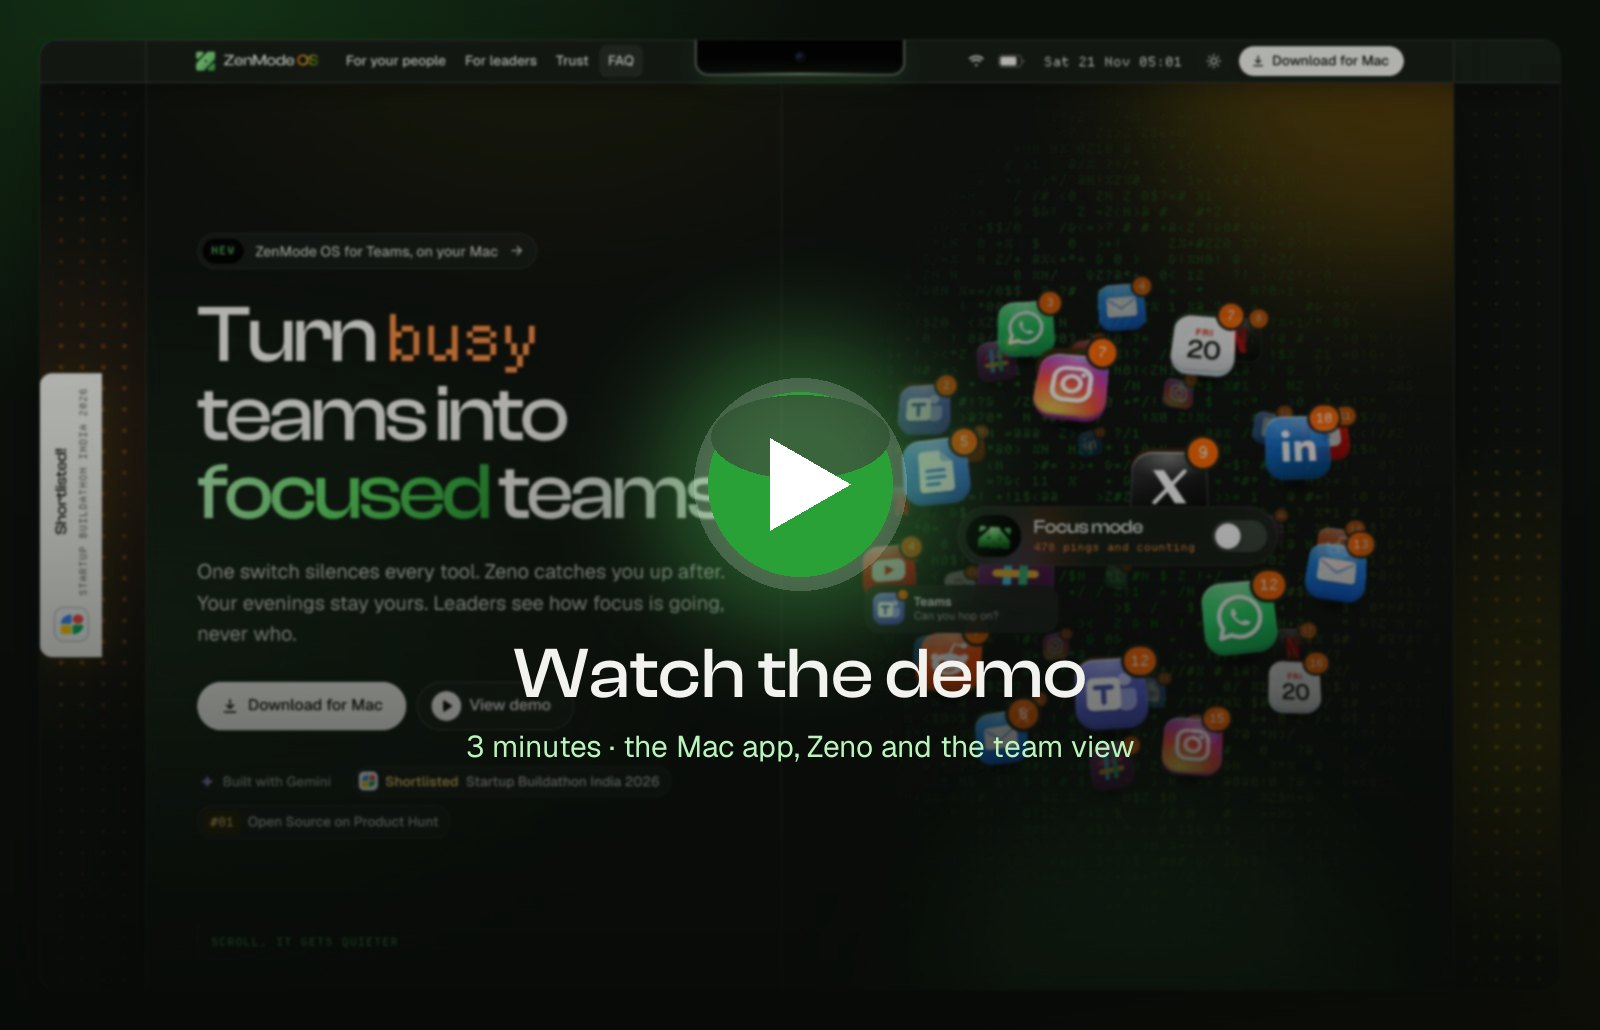
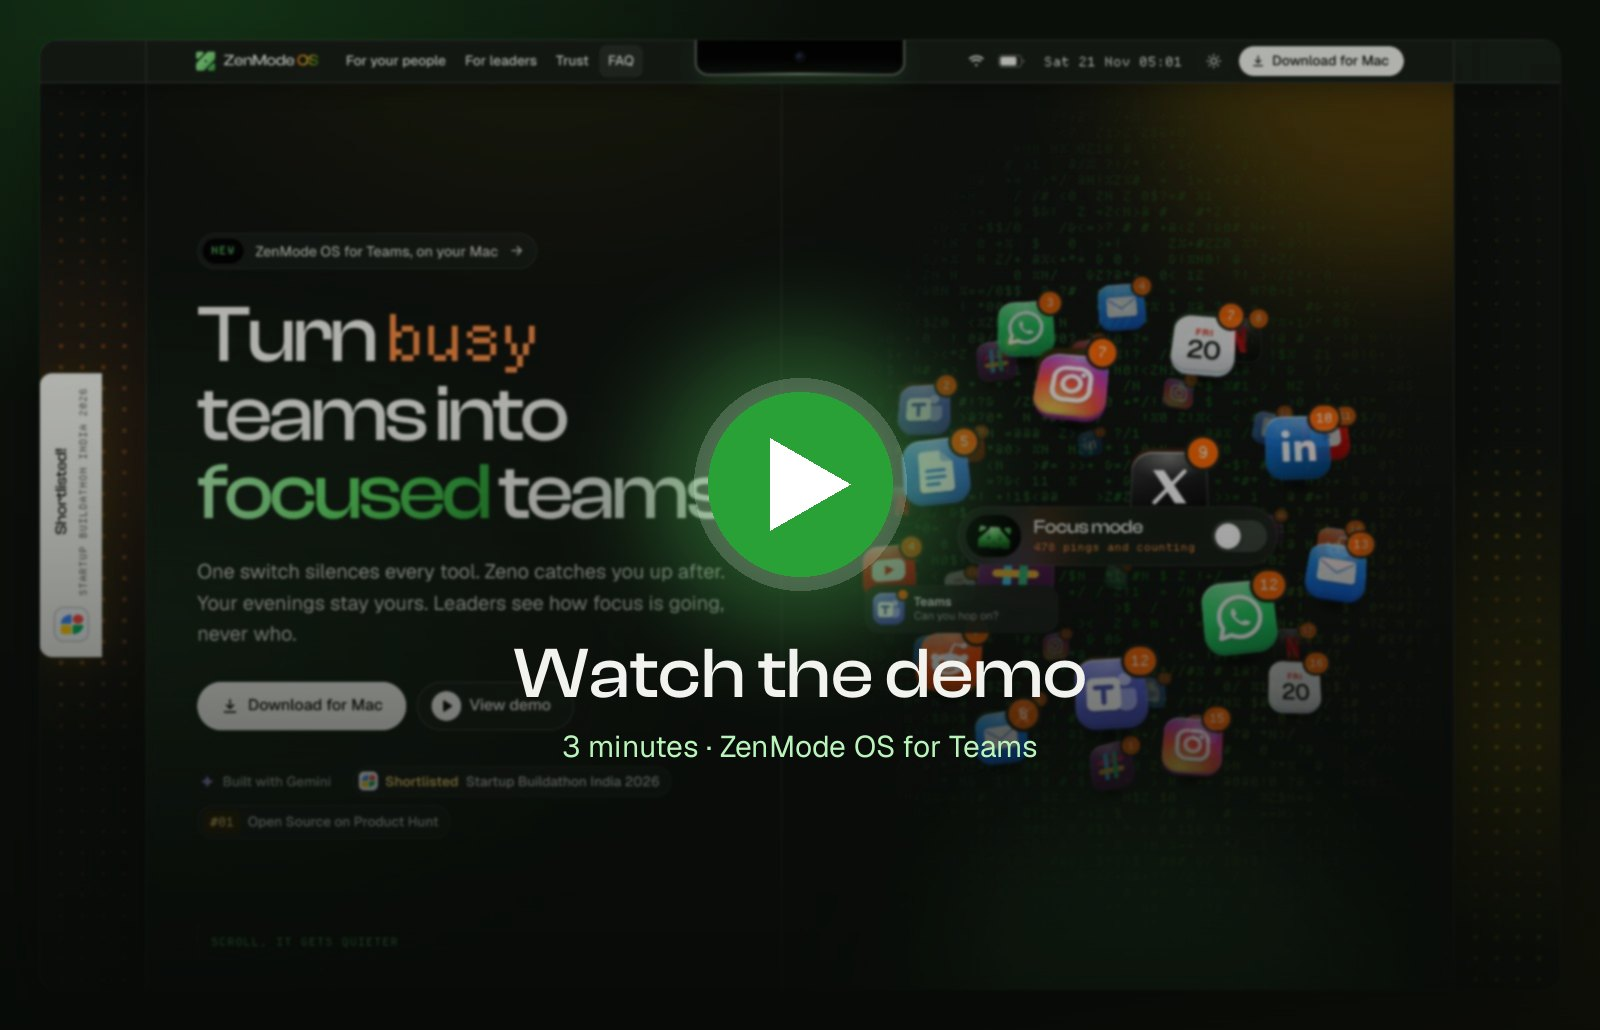
README: describe the demo only as what it is
The demo's description named scenes nobody checked against the video;
it's now "the three-minute trailer of ZenMode OS for Teams", and the
cover says "3 minutes · ZenMode OS for Teams". "The app is notarized by
Apple": the .dmg itself isn't signed, the app inside is.

Changed region(s): [[0.2812, 0.7146, 0.7188, 0.7456], [0.4375, 0.3728, 0.5625, 0.466]]

diff --git a/README.md b/README.md
@@ -26,7 +26,7 @@
   <a href="https://github.com/ThammanaSrinivas/googlebthon-zenmodeos/releases/latest"><img alt="The latest Mac release" src="https://img.shields.io/github/v/release/ThammanaSrinivas/googlebthon-zenmodeos?style=flat-square&labelColor=12160F&color=2AA136&label=Mac%20app"></a>
 </p>
 
-<a href="https://drive.google.com/file/d/1e7lTiYeDbgYKrKYod8J4ZHeevIeM3lVl/view"><img src="docs/readme/demo-cover.jpg" alt="Watch the 3-minute demo of ZenMode OS for Teams: the Mac app, Zeno and the team view (opens on Google Drive)"></a>
+<a href="https://drive.google.com/file/d/1e7lTiYeDbgYKrKYod8J4ZHeevIeM3lVl/view"><img src="docs/readme/demo-cover.jpg" alt="Watch the 3-minute demo of ZenMode OS for Teams (opens on Google Drive)"></a>
 
 <p align="center">
   <img src="docs/readme/zeno-notch.gif" width="640" alt="Zeno in the Mac notch: Focusing until 12:00, I'll keep watch. Later: Work's done, wrap up, then log off.">
@@ -66,12 +66,12 @@ groups of 5 or more, plus a monthly report written by Gemini, and never a name n
   <tr>
     <td width="50%" valign="top">
       <h3>▶&nbsp; Watch the demo</h3>
-      <p>Three minutes: Focus Mode, Zeno in the notch, the catch-up, and what a team admin sees.</p>
+      <p>The three-minute trailer of ZenMode OS for Teams.</p>
       <p><a href="https://drive.google.com/file/d/1e7lTiYeDbgYKrKYod8J4ZHeevIeM3lVl/view"><b>Play it on Google Drive →</b></a></p>
     </td>
     <td width="50%" valign="top">
       <h3>⬇&nbsp; Try it on your Mac</h3>
-      <p><b>v0.1.0</b>, notarized by Apple. macOS 26 or later, Apple silicon or Intel.</p>
+      <p><b>v0.1.0</b>. The app is notarized by Apple. macOS 26 or later, Apple silicon or Intel.</p>
       <p><a href="https://github.com/ThammanaSrinivas/googlebthon-zenmodeos/releases/download/v0.1.0/ZenMode-OS.dmg"><b>ZenMode-OS.dmg</b></a> (19.6 MB) · <a href="https://github.com/ThammanaSrinivas/googlebthon-zenmodeos/releases/latest">release notes</a></p>
     </td>
   </tr>
